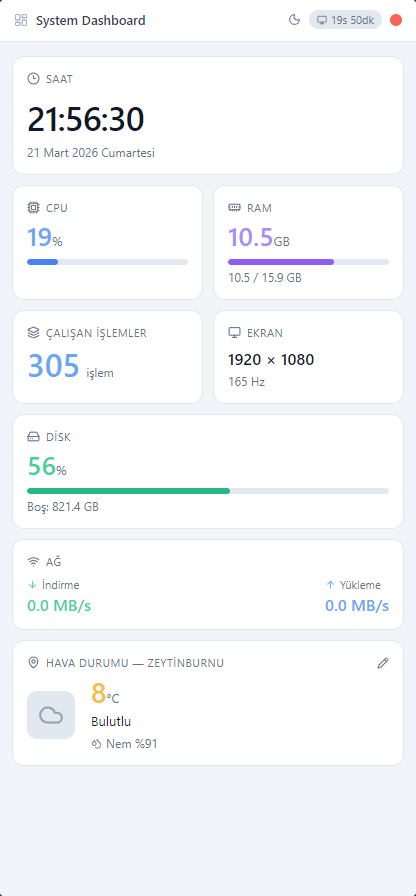
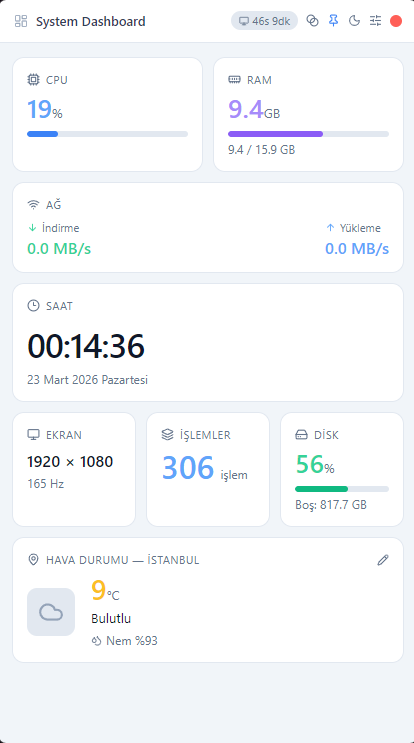
docs: update README with editor screenshots and new features

diff --git a/README.md b/README.md
@@ -6,8 +6,21 @@ Masaüstünde her zaman üstte duran, gerçek zamanlı sistem bilgilerini göste
 ![JavaScript](https://img.shields.io/badge/JavaScript-F7DF1E?style=for-the-badge&logo=javascript&logoColor=black)
 ![Node.js](https://img.shields.io/badge/Node.js-339933?style=for-the-badge&logo=nodedotjs&logoColor=white)
 
+## Ekran Görüntüleri
+
+### Ana Widget
+| Karanlık Mod | Aydınlık Mod |
+|---|---|
+| ![dark](screenshots/dark.png) | ![light](screenshots/light.png) |
+
+### Kart Düzenleyici
+| Karanlık Mod | Aydınlık Mod |
+|---|---|
+| ![editor_dark](screenshots/editor_dark.png) | ![editor_light](screenshots/editor_light.png) |
+
 ## Özellikler
 
+### Sistem Bilgileri
 - 🖥️ Gerçek zamanlı CPU & RAM kullanımı
 - 💾 Disk kullanımı ve boş alan
 - 🌐 Ağ hızı (indirme / yükleme)
@@ -16,18 +29,24 @@ Masaüstünde her zaman üstte duran, gerçek zamanlı sistem bilgilerini göste
 - 🌤️ Hava durumu (şehir seçilebilir)
 - 🕐 Saat & tarih
 - ⏱️ Sistem uptime
+
+### Özelleştirme
+- 🃏 Kartları sürükleyerek yeniden sırala
+- 👁️ İstediğin kartları gizle / göster
+- 🔲 Kartları yan yana grupla (compact mod)
 - 🌙 Aydınlık / Karanlık mod
+- 📌 Her zaman üstte kal (oyun modu dahil)
+- 🫥 Saydam mod (4 farklı opaklık seviyesi)
 
-## Ekran Görüntüleri
-
-| Karanlık Mod | Aydınlık Mod |
-|---|---|
-| ![dark](screenshots/dark.png) | ![light](screenshots/light.png) |
+### Performans
+- Hafif veriler (CPU, RAM) 4 saniyede bir güncellenir
+- Ağ verisi 10 saniyede bir güncellenir
+- Disk & işlem sayısı 15-30 saniyede bir güncellenir
+- Push modeli ile IPC spam önlenir
 
 ## Kurulum
 
 ### Gereksinimler
-
 - [Node.js](https://nodejs.org) (LTS)
 - [Git](https://git-scm.com)
 
@@ -35,7 +54,7 @@ Masaüstünde her zaman üstte duran, gerçek zamanlı sistem bilgilerini göste
 
 ```bash
 # Repoyu klonla
-git clone https://github.com/KULLANICI_ADIN/system-dashboard.git
+git clone https://github.com/AbdullahEminEsen/system-dashboard.git
 
 # Klasöre gir
 cd system-dashboard
@@ -47,6 +66,30 @@ npm install
 npm start
 ```
 
+### Build (Kurulum dosyası oluştur)
+
+```bash
+npm run build
+```
+
+`dist` klasöründe `System Dashboard Setup x.x.x.exe` dosyası oluşur.
+
+## Kullanım
+
+| İkon | İşlev |
+|---|---|
+| ☀️ / 🌙 | Aydınlık / Karanlık mod geçişi |
+| 📌 | Her zaman üstte kal toggle |
+| 🫥 | Saydam mod (her tıklamada %100 → %80 → %60 → %40) |
+| ⚙️ | Kart düzenleyiciyi aç |
+| ✏️ | Hava durumu şehri değiştir |
+
+### Kart Düzenleyici
+- Kartları sürükleyerek sırala
+- Göz ikonuyla kartları gizle veya göster
+- Panel ikonu ile iki kartı yan yana grupla
+- Gizli kartları tekrar ekle
+
 ## Kullanılan Teknolojiler
 
 | Teknoloji | Açıklama |
@@ -57,6 +100,7 @@ npm start
 | [axios](https://axios-http.com/) | HTTP istekleri |
 | [Open-Meteo API](https://open-meteo.com/) | Ücretsiz hava durumu API'si |
 | [Lucide Icons](https://lucide.dev/) | İkon seti |
+| [SortableJS](https://sortablejs.github.io/Sortable/) | Sürükle bırak |
 
 ## Lisans
 